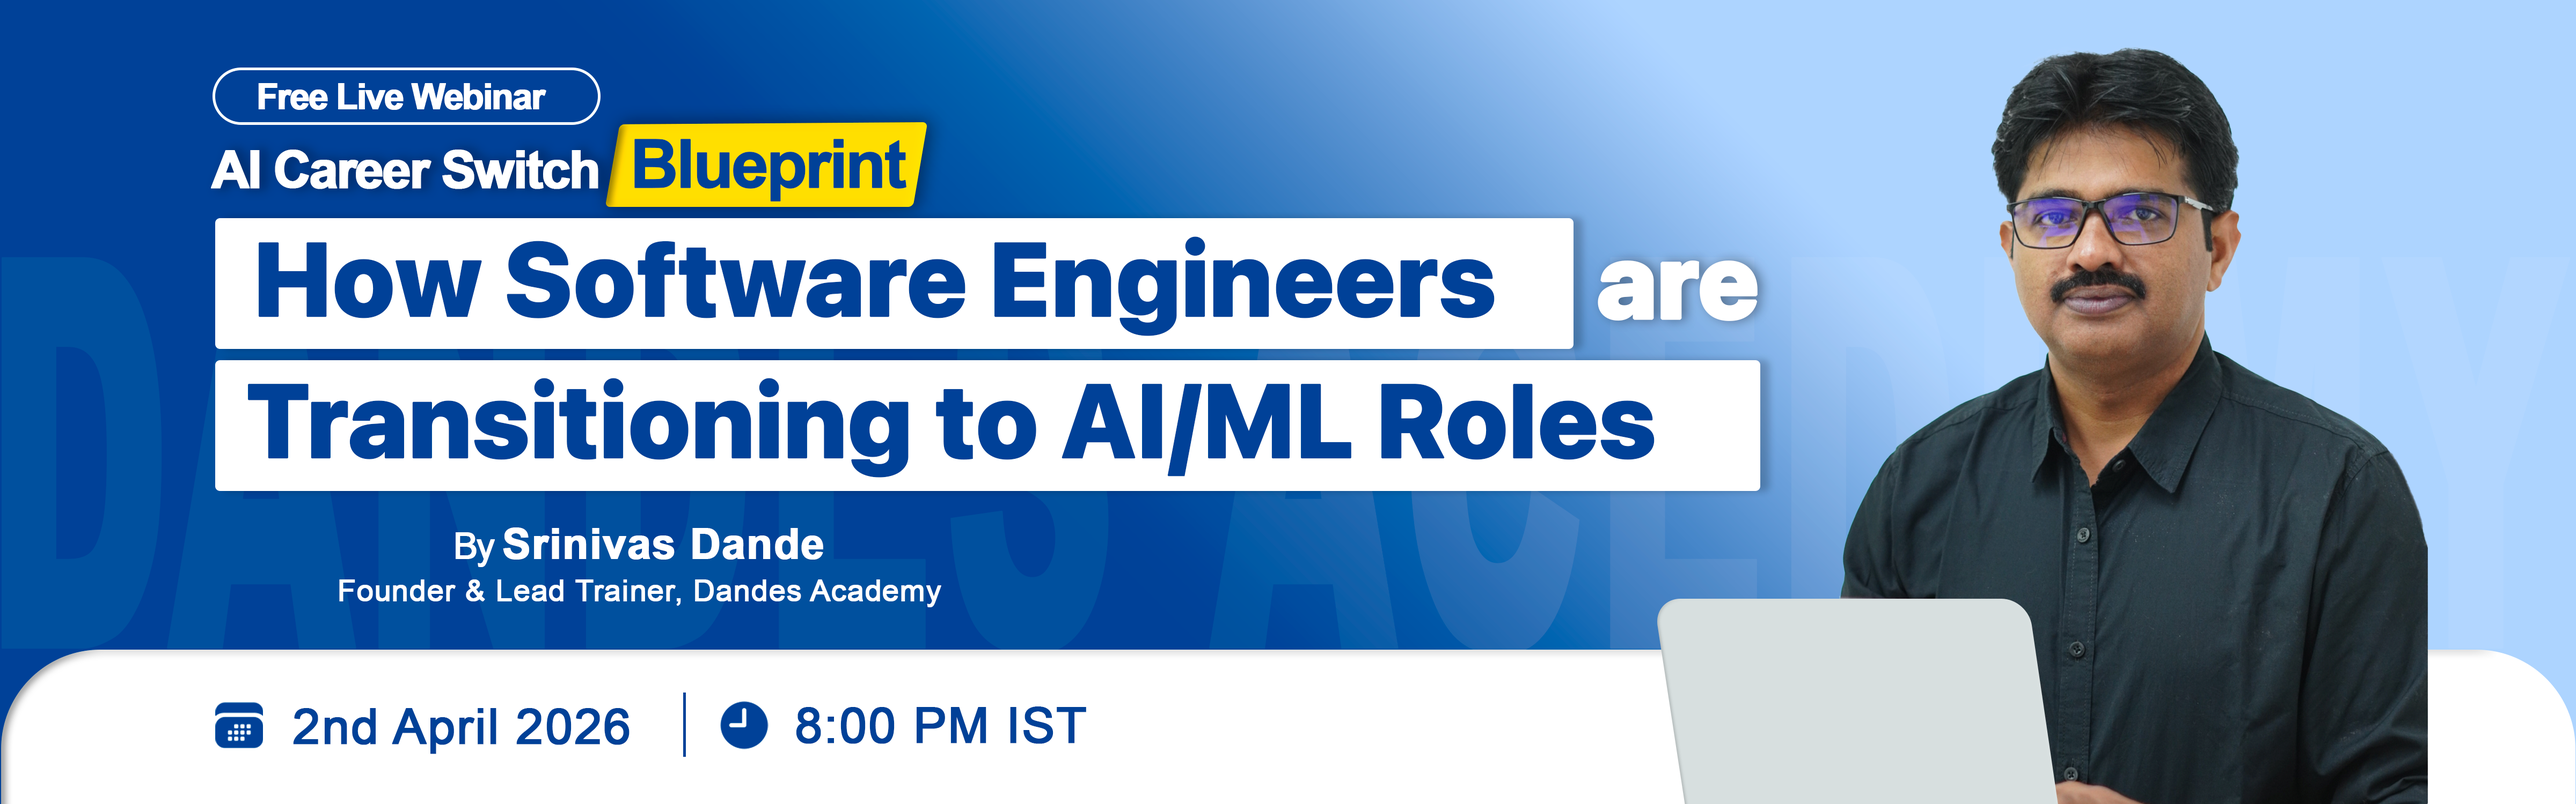
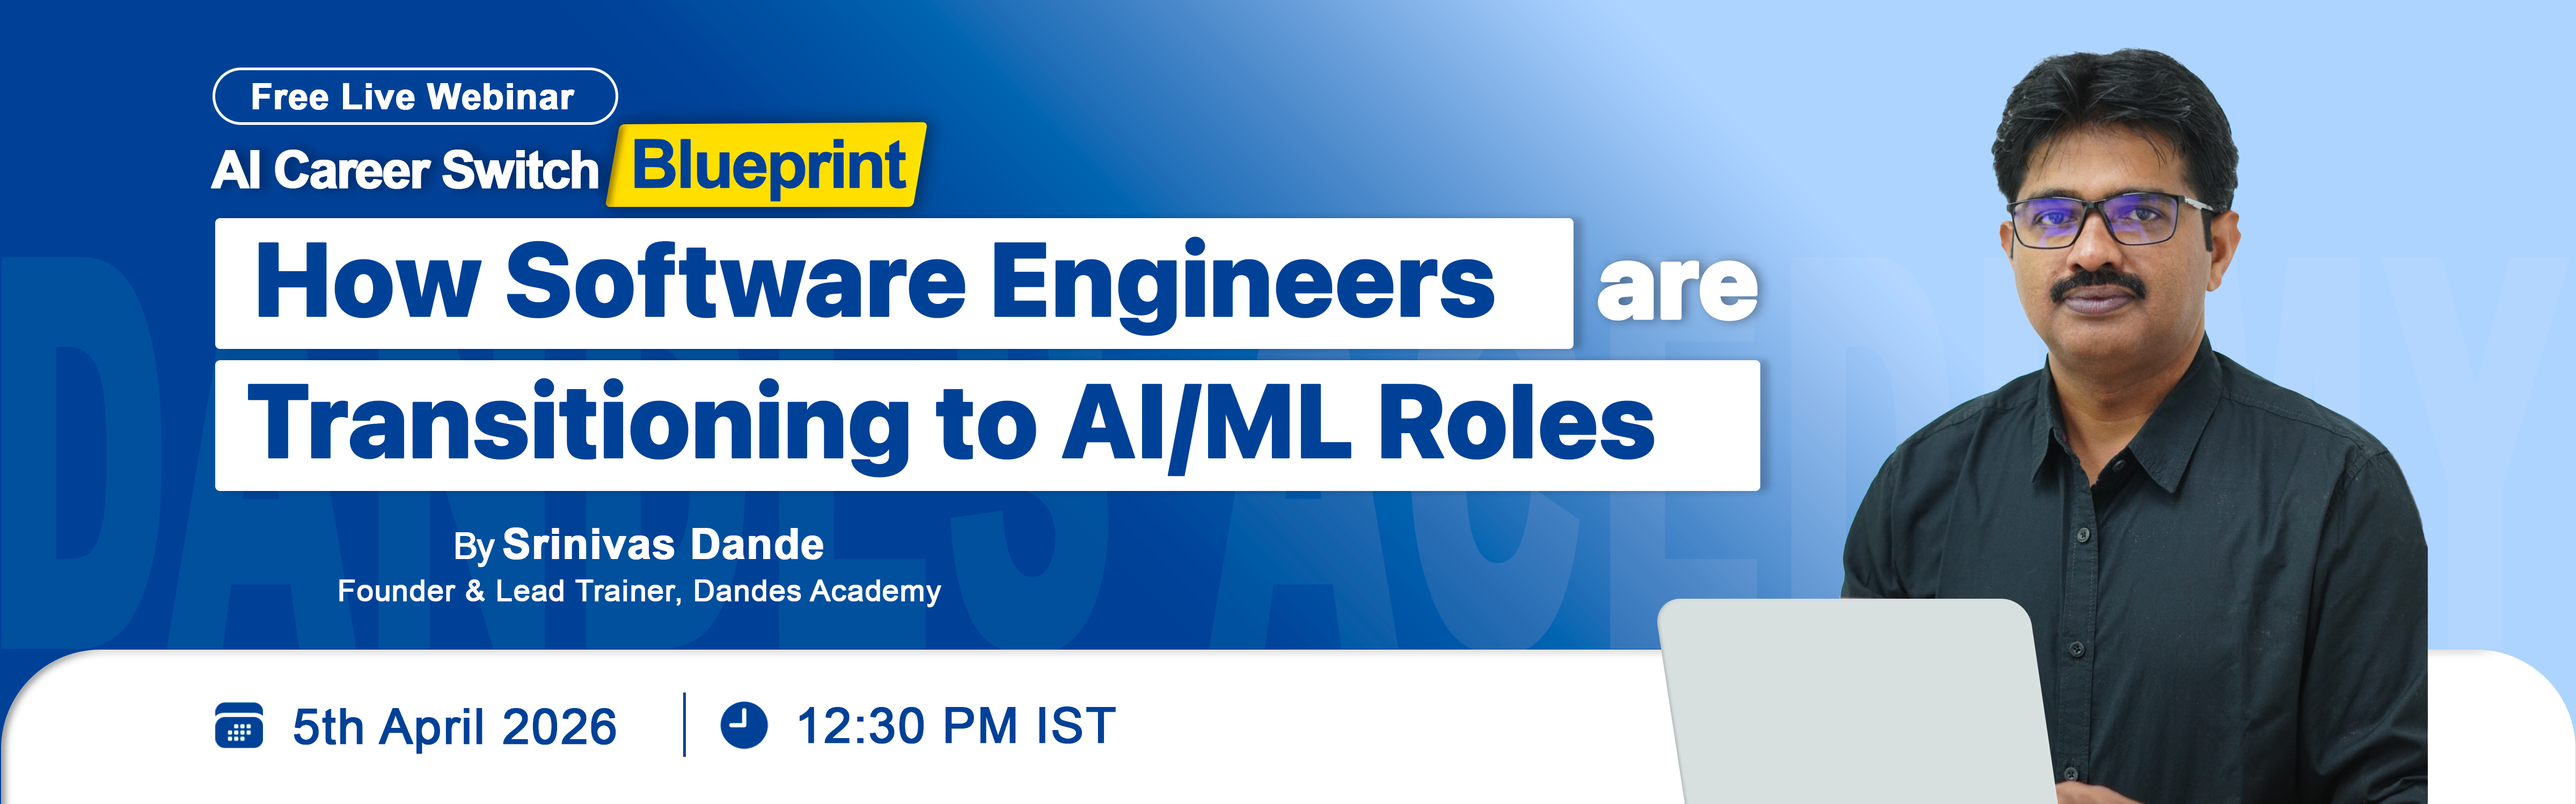
Webinar Date Updated TO 5th

Changed region(s): [[0.0938, 0.8587, 0.25, 0.9507], [0.0938, 0.092, 0.25, 0.1533], [0.3125, 0.8587, 0.4375, 0.92]]

diff --git a/src/lib/mail/sendLeadEmails.js b/src/lib/mail/sendLeadEmails.js
@@ -516,7 +516,7 @@ export async function sendLeadConfirmationEmail({ name, email }) {
             AI Career Switch Blueprint – How Software Engineers Are Transitioning to AI/ML Roles
           </h3>
 
-          <p><strong>📅 Date: 2nd April 2026 (Thursday)</strong></p>
+          <p><strong>📅 Date: 5th April 2026 (Sunday)</strong></p>
           <p><strong>⏰ Time: 8:00 PM IST</strong></p>
           <p><strong>📍 Mode: Live Online Session</strong></p>
 

diff --git a/src/app/webinars/software-engineers-switch-to-ai-career/WebinarBody.jsx b/src/app/webinars/software-engineers-switch-to-ai-career/WebinarBody.jsx
@@ -78,8 +78,8 @@ export default function WebinarBody() {
     }
   };
 
-  const webinarId = "WB-2nd-Apr-26";
-  const webinarDate = new Date(2026, 3, 2, 20, 0, 0);
+  const webinarId = "WB-5th-Apr-26";
+  const webinarDate = new Date(2026, 3, 5, 20, 0, 0);
 
   useEffect(() => {
     const fetchData = async () => {

diff --git a/src/components/LeadForm.jsx b/src/components/LeadForm.jsx
@@ -9,7 +9,7 @@ export default function WebinarForm({
   isExpired = false,
   onSuccess,
 }) {
-   const webinarId = "WB-2nd-Apr-26";
+   const webinarId = "WB-5th-Apr-26";
   const [form, setForm] = useState({
     full_Name: "",
     email: "",
